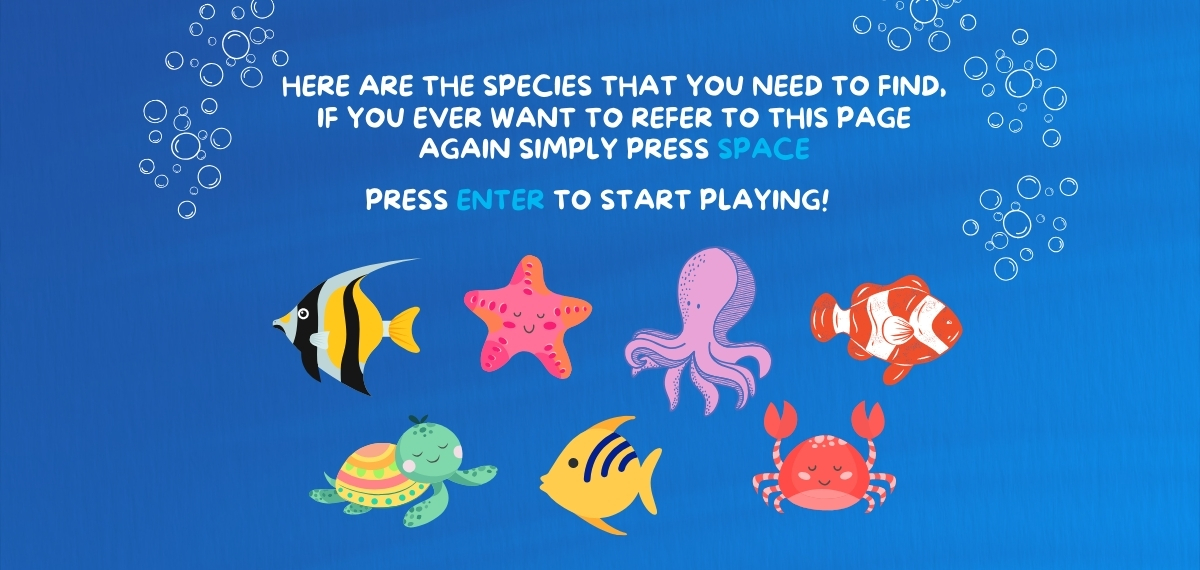
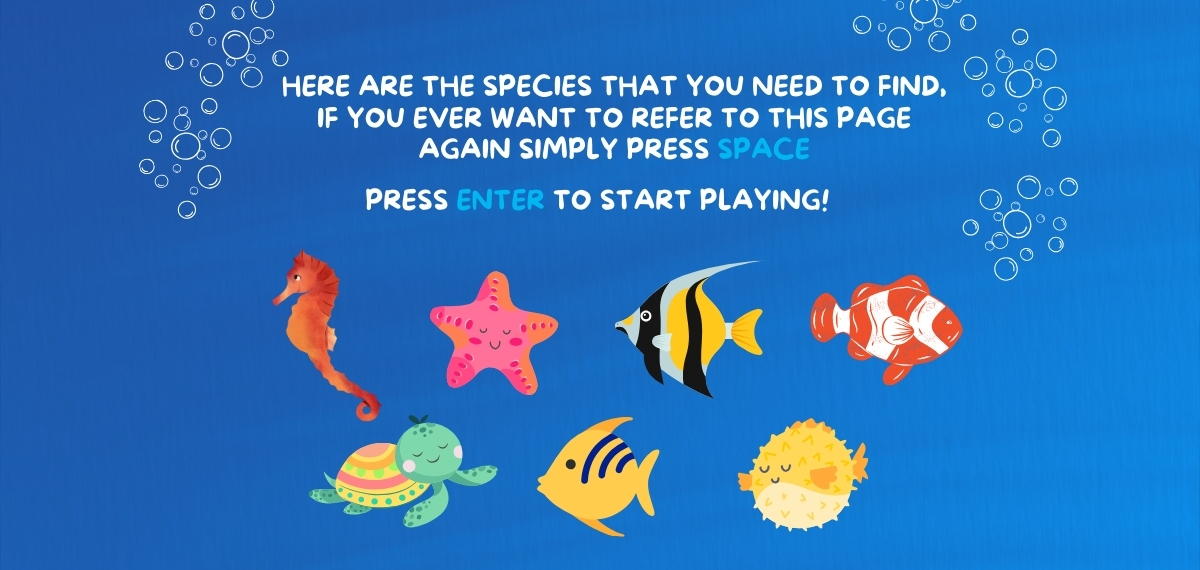
fixed the item positions and added jellyfish position

Changed region(s): [[0.2158, 0.4175, 0.7708, 0.9544], [0.4317, 0.7158, 0.555, 0.9544]]

diff --git a/AI Project/js/script.js b/AI Project/js/script.js
@@ -32,20 +32,20 @@ let item = [
   x: 203,
   y: 413.5
 }, {
-  x: 54,
-  y: 521.5
+  x: 52,
+  y: 364.5
 }, {
-  x: 58,
-  y: 46.5
+  x: 84,
+  y: 90.5
 }, {
   x: 346,
   y: 336.5
 }, {
-  x: 1125,
-  y: 170.5
+  x: 571,
+  y: 223.5
 }, {
-  x: 774,
-  y: 537.5
+  x: 585,
+  y: 106.5
 }
 ]; 
 // The indextracker 
@@ -54,6 +54,16 @@ let indexCircle = {
   y : undefined,
   size : 20
 };
+//Jelly Fish 
+let jellyFish = [
+{
+  x : 235,
+  y : 182.5
+}, {
+  x: 134,
+  y: 148.5
+}
+];
 
 //State stuff 
 const STATE = {
@@ -140,6 +150,7 @@ function list(){
 }
 function simulation() {
   background(backgroundSimulation);
+  displayMouseCoordinates();
 
   // Check if there are currently predictions to display
   if (predictions.length > 0) {
@@ -228,4 +239,18 @@ function keyPressed() {
       state = STATE.LIST;
     }
   }
+}
+
+function displayMouseCoordinates() {
+  // Display the mouse coordinates
+  let mouseXPosition = mouseX;
+  let mouseYPosition = mouseY;
+
+  // Set text style
+  textSize(16);
+  fill(0);
+
+  // Display coordinates at (20, 20)
+  text("MouseX: " + mouseXPosition, 20, 20);
+  text("MouseY: " + mouseYPosition, 20, 40);
 }
